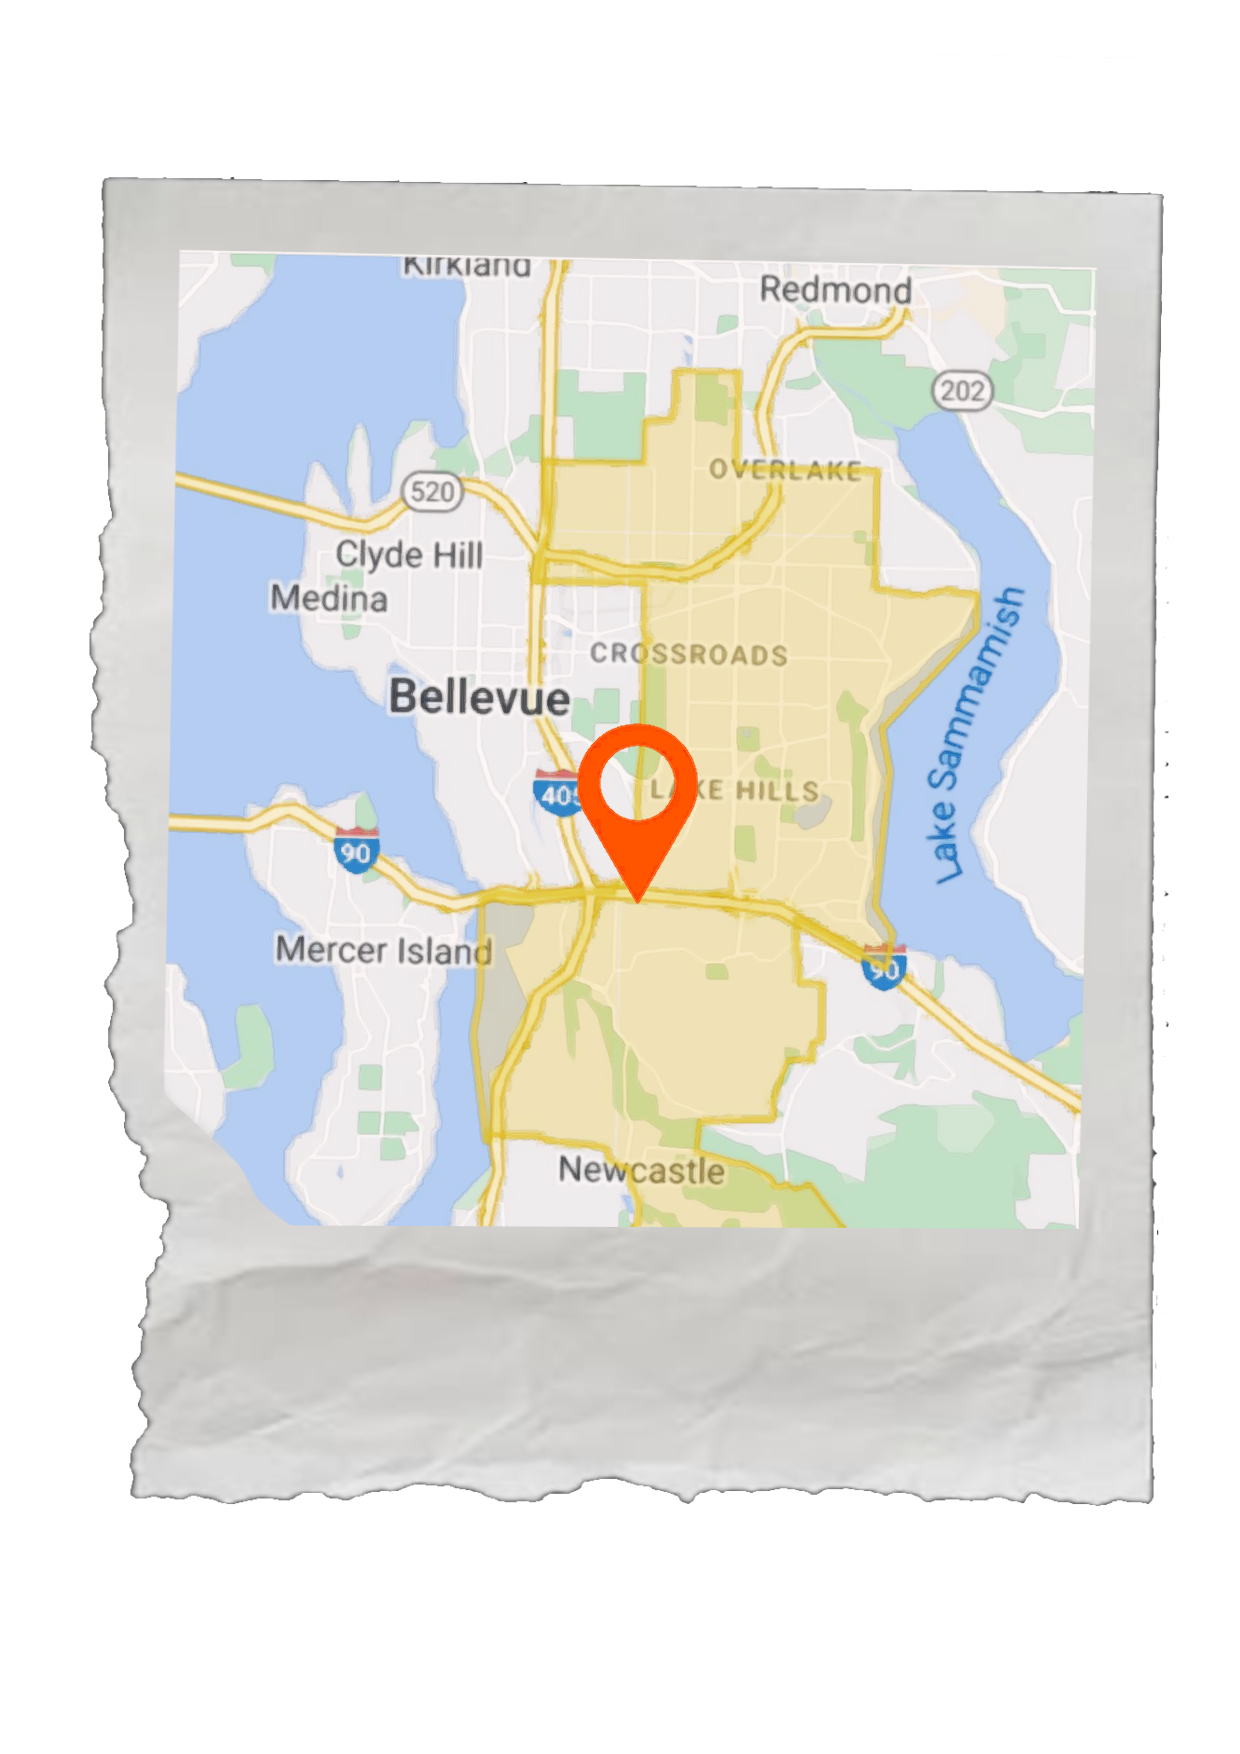
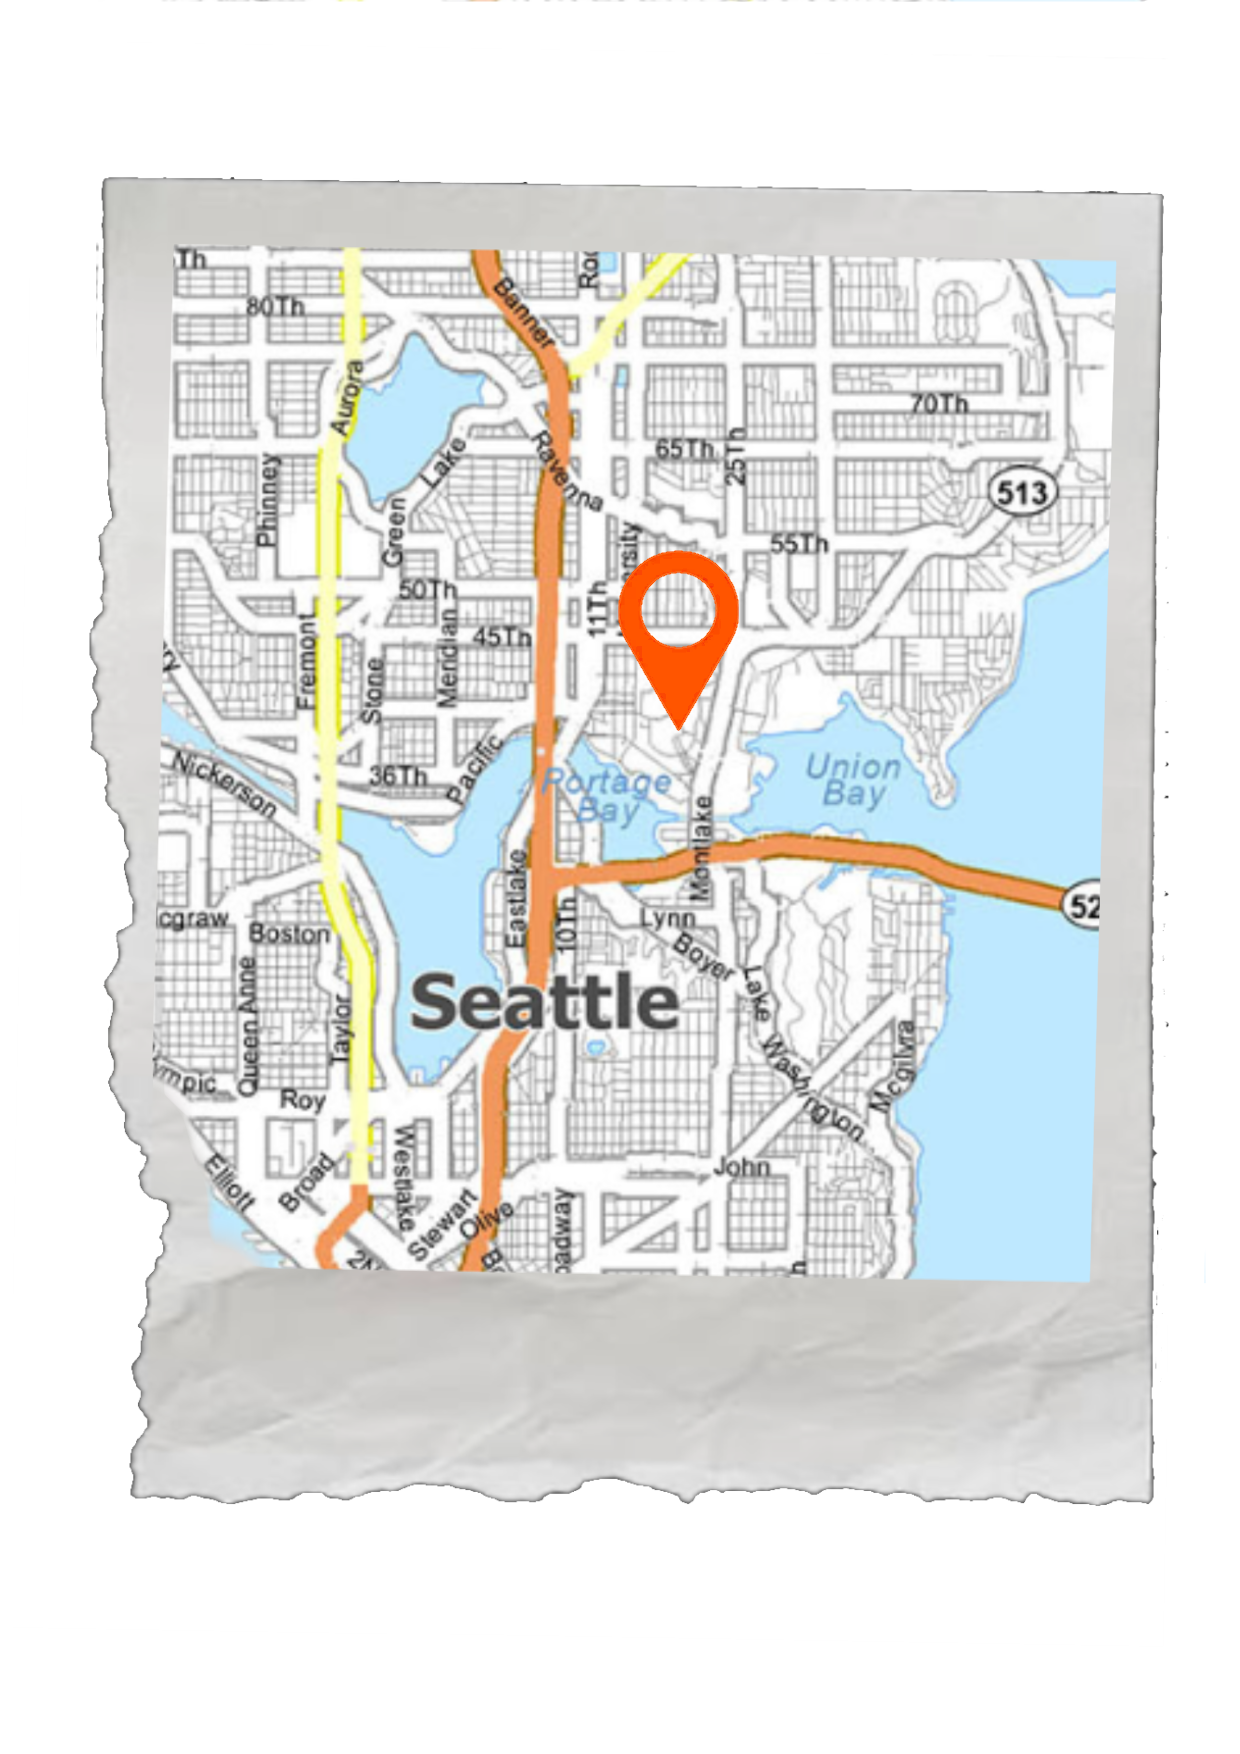
Update portfolio board assets and folder navigation

diff --git a/app.js b/app.js
@@ -1,6 +1,5 @@
 const resumePath = "assets/resume.pdf";
 const cvPath = "assets/cv.pdf";
-const resumeBundlePath = "assets/Jiayu_He_Resume_and_CV.zip";
 const portfolioUiPath = "assets/portfolio-ui";
 const contact = {
   github: "https://github.com/Jiayu-He-2016",
@@ -14,6 +13,10 @@ function boardImage(number, label = "") {
     : 'aria-hidden="true"';
   const fileName = number === "pin" ? "pin.png" : `board-${number}.png`;
   return `<span class="png-crop png-${number}" ${accessibility}><img src="${portfolioUiPath}/board/${fileName}" alt="" draggable="false"></span>`;
+}
+
+function boardImageAsset(fileName) {
+  return `<span class="png-crop png-paper" aria-hidden="true"><img src="${portfolioUiPath}/board/${fileName}" alt="" draggable="false"></span>`;
 }
 
 const navigation = [
@@ -36,8 +39,8 @@ function renderNavigation(page) {
       <nav class="nav-links" aria-label="Main navigation">${links}</nav>
       <a class="brand" href="${sectionHref("home")}" aria-label="Jiayu He, home"><span>Jiayu He</span></a>
       <div class="nav-actions">
-        <a class="resume-link" href="${basePath}${resumePath}" download="Jiayu_He_Resume.pdf" aria-label="Download Resume PDF"><span aria-hidden="true">↗</span> Resume</a>
-        <a class="cv-link" href="${basePath}${cvPath}" download="Jiayu_He_CV.pdf" aria-label="Download CV PDF"><span aria-hidden="true">↗</span> CV</a>
+        <a class="resume-link" href="${basePath}${resumePath}" download="Jiayu_He_Resume.pdf" aria-label="Download Resume PDF"><svg class="download-icon" viewBox="0 0 20 20" aria-hidden="true"><path d="M10 2.5v10m0 0 4-4m-4 4-4-4M4 16.5h12"/></svg> Resume</a>
+        <a class="cv-link" href="${basePath}${cvPath}" download="Jiayu_He_CV.pdf" aria-label="Download CV PDF"><svg class="download-icon" viewBox="0 0 20 20" aria-hidden="true"><path d="M10 2.5v10m0 0 4-4m-4 4-4-4M4 16.5h12"/></svg> CV</a>
       </div>
     </header>`;
 }
@@ -67,8 +70,11 @@ function renderHome() {
         </div>
       </div>
 
-      <a class="board-item resume-paper tactile" href="${resumeBundlePath}" download="Jiayu_He_Resume_and_CV.zip" aria-label="Download Resume and CV as a ZIP file">
-        ${boardImage(5)}
+      <a class="board-item cv-paper board-download-note tactile" href="${cvPath}" download="Jiayu_He_CV.pdf" aria-label="Download CV PDF">
+        ${boardImageAsset("board-5-cv.png")}
+      </a>
+      <a class="board-item resume-paper board-download-note tactile" href="${resumePath}" download="Jiayu_He_Resume.pdf" aria-label="Download Resume PDF">
+        ${boardImageAsset("board-5-resume.png")}
       </a>
       <div class="board-item portrait-paper tactile">
         ${boardImage(7)}
@@ -85,8 +91,8 @@ function renderHome() {
       </a>
 
       <div class="board-item map-paper tactile">
-        ${boardImage(6, "Map marking Bellevue, Washington")}
-        <p class="map-note handwritten">Current coordinates:<br>Bellevue, WA</p>
+        ${boardImage(6, "Map marking Seattle, Washington")}
+        <p class="map-note handwritten">Current coordinates:<br>Seattle, WA</p>
       </div>
       <a class="board-item clue clue-left tactile" href="secret.html" aria-label="Open the hidden artwork and fun-facts page">
         ${boardImage(3, "Small evidence photograph")}
@@ -161,8 +167,8 @@ const folderPages = {
     openBackground: "projects-open.jpg",
     folderAsset: "board-1.png",
     files: [
-      { src: "project-file-1.png", className: "project-file--one", label: "Project 1", href: "projects/project-1/" },
-      { src: "project-file-2.png", className: "project-file--two", label: "Project 2", href: "projects/project-2/" },
+      { src: "project-file-1-new.png", className: "project-file--one", label: "Project 1", href: "projects/project-1/" },
+      { src: "project-file-2-new.png", className: "project-file--two", label: "Project 2", href: "projects/project-2/" },
     ],
   },
   research: {
@@ -1372,6 +1378,68 @@ function findFileLinkAtSourcePoint(view, layer, clientX, clientY, masks) {
   return mask.alpha[y * mask.width + x] >= 96 ? layer.querySelector(".file-hitbox") : null;
 }
 
+function setupBoardDownloadHitTesting() {
+  const notes = [...document.querySelectorAll(".board-download-note")];
+  if (!notes.length) return;
+
+  const masks = new WeakMap();
+  for (const note of notes) {
+    const image = note.querySelector("img");
+    if (!image) continue;
+
+    const prepareMask = () => {
+      const mask = createFileAlphaMask(image);
+      if (mask) masks.set(image, mask);
+    };
+    if (image.complete) prepareMask();
+    else image.addEventListener("load", prepareMask, { once: true });
+  }
+
+  document.addEventListener("click", (event) => {
+    if (event.detail === 0 || !(event.target instanceof Element)) return;
+    const targetNote = event.target.closest(".board-download-note");
+    if (!targetNote) return;
+
+    const candidates = notes.filter((note) => {
+      const bounds = note.getBoundingClientRect();
+      return event.clientX >= bounds.left && event.clientX <= bounds.right &&
+        event.clientY >= bounds.top && event.clientY <= bounds.bottom;
+    }).sort((a, b) => {
+      const zDifference = Number(getComputedStyle(b).zIndex) - Number(getComputedStyle(a).zIndex);
+      return zDifference || notes.indexOf(b) - notes.indexOf(a);
+    });
+
+    const hitNote = candidates.find((note) => {
+      const image = note.querySelector("img");
+      let mask = image && masks.get(image);
+      if (!mask && image?.complete && image.naturalWidth && image.naturalHeight) {
+        mask = createFileAlphaMask(image);
+        if (mask) masks.set(image, mask);
+      }
+      if (!mask || !image) return false;
+
+      const bounds = note.getBoundingClientRect();
+      const width = note.offsetWidth;
+      const height = note.offsetHeight;
+      if (!width || !height) return false;
+      const transformValue = getComputedStyle(note).transform;
+      const transform = transformValue === "none" ? new DOMMatrix() : new DOMMatrix(transformValue);
+      const point = new DOMPoint(
+        event.clientX - bounds.left - bounds.width / 2,
+        event.clientY - bounds.top - bounds.height / 2,
+      ).matrixTransform(transform.inverse());
+      const x = Math.floor((point.x + width / 2) / width * mask.width);
+      const y = Math.floor((point.y + height / 2) / height * mask.height);
+      return x >= 0 && x < mask.width && y >= 0 && y < mask.height && mask.alpha[y * mask.width + x] >= 96;
+    });
+
+    if (hitNote === targetNote) return;
+    event.preventDefault();
+    event.stopImmediatePropagation();
+    hitNote?.click();
+  }, true);
+}
+
 function setupFolderInteractions(fileMasks, hoveredLayerByView) {
   const reducedMotion = window.matchMedia("(prefers-reduced-motion: reduce)");
   const transitionDuration = 1400;
@@ -1402,9 +1470,12 @@ function setupFolderInteractions(fileMasks, hoveredLayerByView) {
     document.dispatchEvent(new Event("portfolio:refresh-magnifier"));
   }
 
-  function finishTransition(page, from, to) {
+  function finishTransition(page, from, to, onFinish) {
     const timer = window.setTimeout(() => {
-      if (document.getElementById(page)?.dataset.state === from) setFolderState(page, to);
+      if (document.getElementById(page)?.dataset.state === from) {
+        setFolderState(page, to);
+        onFinish?.();
+      }
     }, transitionDuration);
     transitionTimers.set(page, timer);
   }
@@ -1420,15 +1491,23 @@ function setupFolderInteractions(fileMasks, hoveredLayerByView) {
     finishTransition(page, "opening", "open");
   }
 
-  function closeFolder(page) {
+  function scrollHomeAfterClose() {
+    const home = document.getElementById("home");
+    if (!home) return;
+    if (location.hash !== "#home") history.replaceState(null, "", "#home");
+    home.scrollIntoView({ behavior: reducedMotion.matches ? "auto" : "smooth", block: "start" });
+  }
+
+  function closeFolder(page, returnHome = false) {
     const section = document.getElementById(page);
     if (!section || section.dataset.state !== "open") return;
     if (reducedMotion.matches) {
       setFolderState(page, "closed");
+      if (returnHome) scrollHomeAfterClose();
       return;
     }
     setFolderState(page, "closing");
-    finishTransition(page, "closing", "closed");
+    finishTransition(page, "closing", "closed", returnHome ? scrollHomeAfterClose : undefined);
   }
 
   function cancelHomeShortcutTransition() {
@@ -1556,7 +1635,7 @@ function setupFolderInteractions(fileMasks, hoveredLayerByView) {
     }
 
     if (activatedFile) event.preventDefault();
-    closeFolder(openPage.id);
+    closeFolder(openPage.id, true);
   });
 
   document.addEventListener("keydown", (event) => {
@@ -1746,6 +1825,7 @@ document.querySelector("#app").innerHTML = page === "secret"
     : renderHome();
 if (page === "home") {
   setupSectionNavigation();
+  setupBoardDownloadHitTesting();
   const { fileMasks, hoveredLayerByView } = setupEvidenceFileInteractions();
   setupFolderInteractions(fileMasks, hoveredLayerByView);
   setupContactForm();

diff --git a/styles.css b/styles.css
@@ -160,7 +160,7 @@ body[data-page="home"] .site-nav { border-bottom: 0; }
   white-space: nowrap;
 }
 
-.resume-link span, .cv-link span { color: var(--orange); font-size: 17px; }
+.download-icon { width: 16px; height: 16px; flex: none; fill: none; stroke: var(--orange); stroke-linecap: round; stroke-linejoin: round; stroke-width: 1.7; }
 .resume-link:hover, .cv-link:hover { border-color: var(--orange); transform: translateY(-2px); }
 .cv-link { cursor: pointer; }
 
@@ -233,6 +233,8 @@ body[data-page="home"] .site-nav { border-bottom: 0; }
   top: var(--png-top);
 }
 
+.png-paper img { inset: 0; width: 100%; height: 100%; object-fit: contain; }
+
 .png-1 { --png-width: 106.8966%; --png-left: -3.7069%; --png-top: -12.9063%; }
 .png-2 { --png-width: 119.6911%; --png-left: -7.3359%; --png-top: -68.6123%; }
 .png-3 { --png-width: 112.4207%; --png-left: -5.1677%; --png-top: -70.0489%; }
@@ -250,7 +252,8 @@ body[data-page="home"] .site-nav { border-bottom: 0; }
 .social-hotspots { position: absolute; inset: 16% 13% 14% 12%; display: grid; grid-template-rows: repeat(3, 1fr); }
 .social-hotspots a { display: block; }
 
-.resume-paper { z-index: 5; left: 10.4%; top: 16.7%; width: 14%; aspect-ratio: 1008 / 957; transform: rotate(-10deg); }
+.cv-paper { z-index: 5; left: 10.4%; top: 13.8%; width: 14%; aspect-ratio: 1240 / 1754; transform: rotate(-10deg); }
+.resume-paper { z-index: 6; left: 12.1%; top: 19.2%; width: 14%; aspect-ratio: 1240 / 1754; transform: rotate(-8deg); }
 .portrait-paper { z-index: 4; left: 25.7%; top: 13.9%; width: 31.1%; aspect-ratio: 1180 / 871; transform: rotate(-2deg); }
 
 .description-paper { z-index: 5; left: 49%; top: 9%; width: 41%; aspect-ratio: 1120 / 764; }
@@ -292,7 +295,8 @@ body[data-page="home"] .site-nav { border-bottom: 0; }
 .tactile { transition: transform .22s ease; }
 .tactile:hover, .tactile:focus-visible { z-index: 15; }
 .social-evidence:hover, .social-evidence:focus-visible { transform: rotate(-6deg) translateY(-6px); }
-.resume-paper:hover, .resume-paper:focus-visible { transform: rotate(-8deg) translateY(-6px); }
+.cv-paper:hover, .cv-paper:focus-visible { transform: rotate(-8deg) translateY(-6px); }
+.resume-paper:hover, .resume-paper:focus-visible { transform: rotate(-6deg) translateY(-6px); }
 .portrait-paper:hover, .portrait-paper:focus-visible { transform: rotate(-.5deg) translateY(-6px); }
 .description-paper:hover, .description-paper:focus-visible { transform: rotate(.5deg) translateY(-5px); }
 .research-folder:hover, .research-folder:focus-visible { transform: rotate(2.5deg) translateY(-8px); }
@@ -1210,7 +1214,7 @@ body[data-page="home"] .site-nav { border-bottom: 0; }
   .nav-link { padding: 8px 0; font-size: clamp(10px, 2.8vw, 14px); white-space: nowrap; }
   .nav-actions { gap: 5px; }
   .resume-link, .cv-link { width: 78px; height: 36px; padding: 0 4px; gap: 4px; font-size: 10px; }
-  .resume-link span, .cv-link span { font-size: 13px; }
+  .download-icon { width: 13px; height: 13px; }
   .board-stage {
     display: grid;
     grid-template-columns: repeat(2, minmax(0, 1fr));
@@ -1224,7 +1228,9 @@ body[data-page="home"] .site-nav { border-bottom: 0; }
   .connections, .pushpin, .board-grid { display: none; }
   .board-item { position: relative; inset: auto; width: 100%; align-self: center; }
   .social-evidence { grid-column: 1; grid-row: 1; width: 90%; transform: rotate(-4deg); }
-  .resume-paper { grid-column: 2; grid-row: 1; width: 82%; justify-self: center; transform: rotate(-6deg); }
+  .cv-paper, .resume-paper { grid-column: 2; grid-row: 1; width: 82%; justify-self: center; }
+  .cv-paper { transform: rotate(-10deg) translate(-5%, -4%); }
+  .resume-paper { transform: rotate(-8deg) translate(5%, 10%); }
   .portrait-paper { grid-column: 1 / -1; grid-row: 2; width: min(100%, 560px); justify-self: center; transform: rotate(-1deg); }
   .description-paper { grid-column: 1 / -1; grid-row: 3; width: 100%; }
   .research-folder { grid-column: 1; grid-row: 4; width: 100%; transform: rotate(2deg); }
